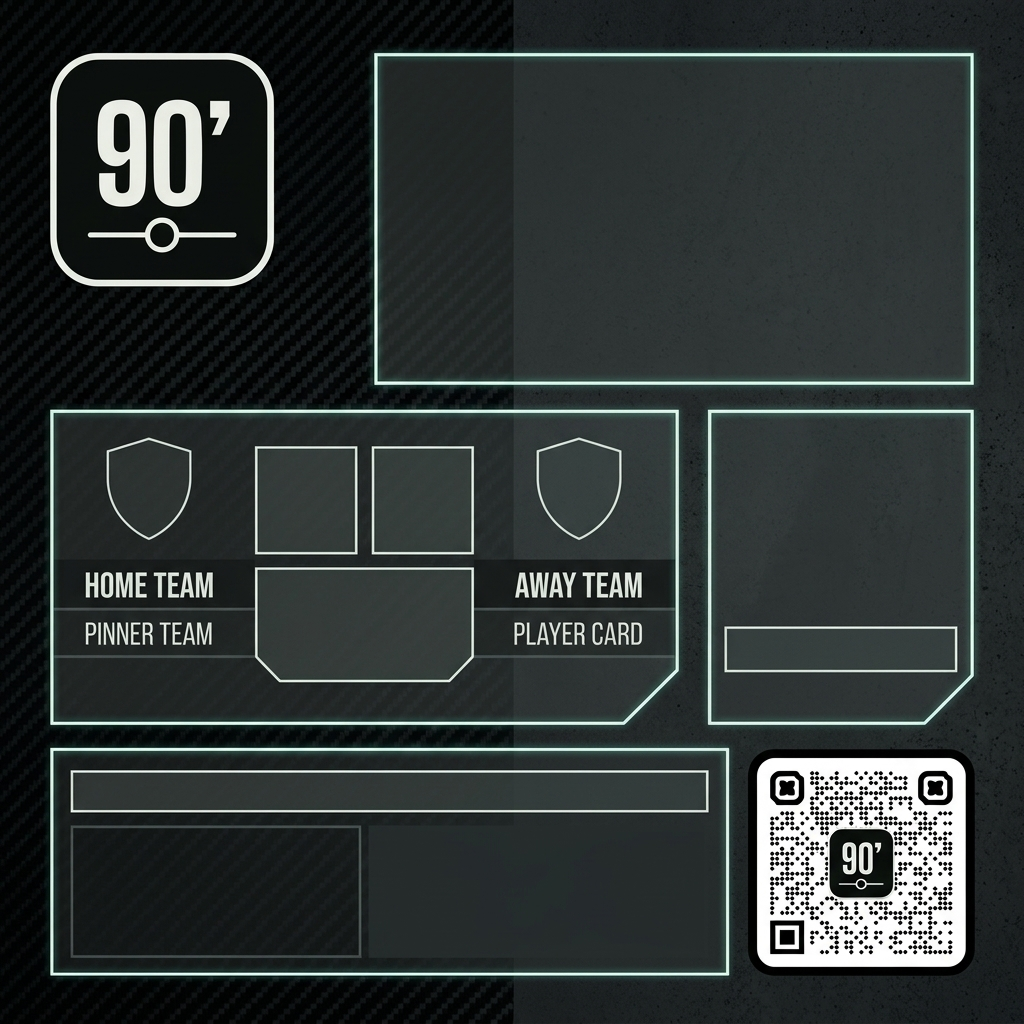
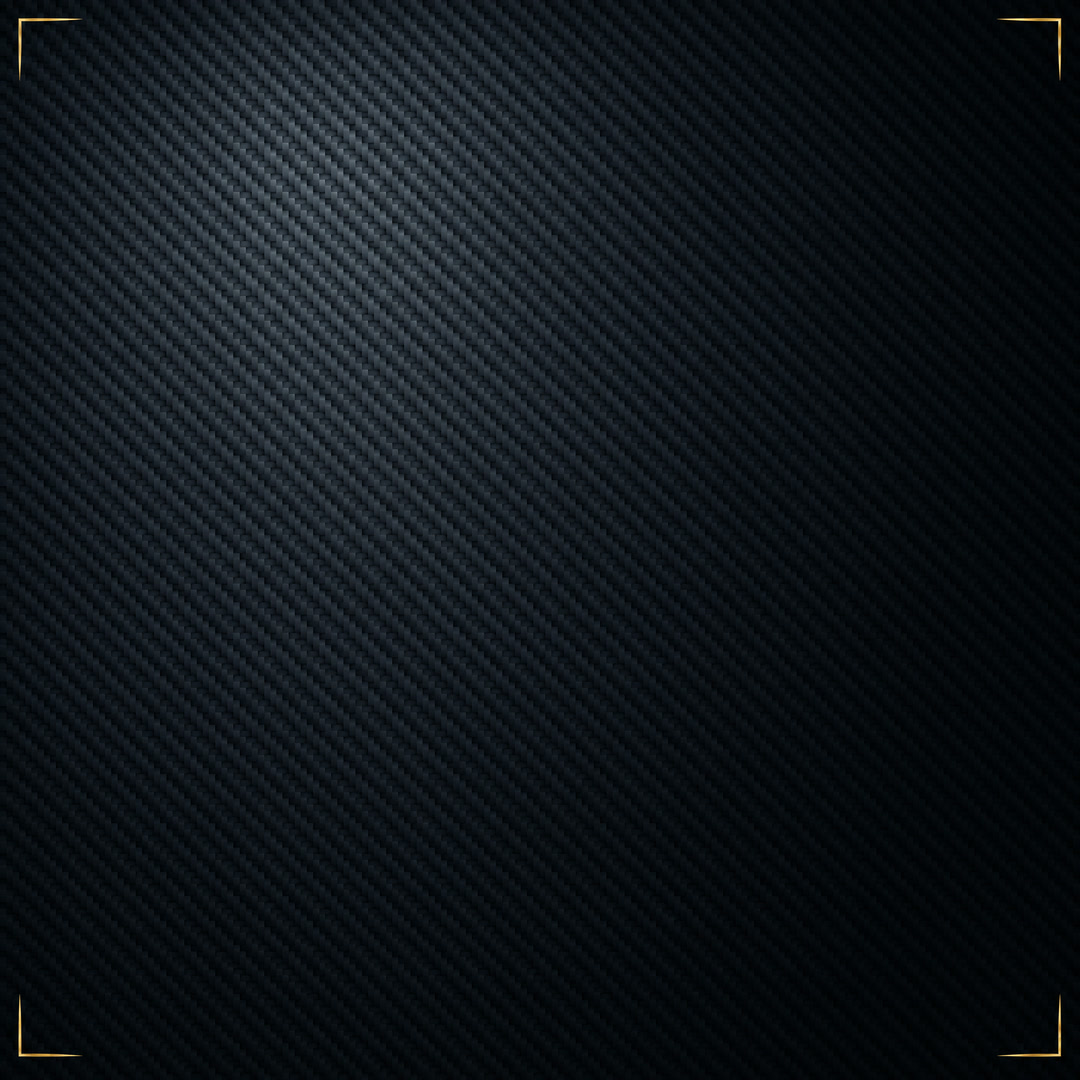
La carte de statistiques quitte sa maquette
Derniere plaque du depot restee a l'etat de maquette : stats-match portait
ses cadres, ses panneaux et les mots « HOME TEAM », « AWAY TEAM », « PINNER
TEAM », « PLAYER CARD » PEINTS DANS L'IMAGE. Le code en recouvrait une partie
seulement — d'ou les cadres fantomes sous la carte publiee (Mehdi, 16/10).

Le logo et le code QR y etaient peints eux aussi : l'un ne pouvait pas etre
redimensionne, l'autre ne pouvait pas etre mis a jour. Ils sont desormais
dessines, dans les deux zones qu'ils occupaient deja.

Le bloc d'inscription complet tire un voile sur TOUTE la largeur, qui
traverserait le tableau : ici le code est pose seul et sa ligne d'appel est
ecrite sous lui, dans son propre coin.

diff --git a/studio/draw-gabarits.js b/studio/draw-gabarits.js
@@ -315,6 +315,28 @@ export async function gabaritStatsMatch(d) {
     txt(ctx, d.ecart.valeur, 888, 548, { size: 66, font: 'Anton' })
     ar(ctx, d.ecart.libelle, 888, 606, { size: 21 })
   }
+
+  // ── LA MARQUE ET LE CODE, DESSINES ────────────────────────────────────
+  // Ils etaient PEINTS DANS LA MAQUETTE, avec les cadres et les mots
+  // « HOME TEAM » / « AWAY TEAM » qui transparaissaient sous la carte. La
+  // plaque est nue depuis le 16/10/2026 : ils occupent les deux zones
+  // qu'ils occupaient deja, mais a la taille des autres formats et, pour le
+  // code, modifiable.
+  // 190 et non 150 : ici la marque occupe un bloc a elle, laisse libre par
+  // l'entete decale a droite. A la taille des autres formats elle s'y perdait.
+  paintLogo(ctx, 102, 108, 190)
+
+  // Le bloc d'inscription complet tire un voile SUR TOUTE LA LARGEUR, qui
+  // traverserait le tableau. Ici le code est pose seul et sa ligne d'appel
+  // est ecrite sous lui, dans son propre coin.
+  const CXQ = 912, YQ = 788, TQ = 148
+  blocInscription(ctx, CXQ, YQ, TQ, T, { sansTexte: true })
+  const yA = YQ + largeurQr(TQ) + 34
+  const voile = ctx.createLinearGradient(749, 0, 1080, 0)
+  voile.addColorStop(0, 'rgba(5,8,15,0)'); voile.addColorStop(0.25, 'rgba(5,8,15,0.9)')
+  voile.addColorStop(0.85, 'rgba(5,8,15,0.9)'); voile.addColorStop(1, 'rgba(5,8,15,0)')
+  ctx.save(); ctx.fillStyle = voile; ctx.fillRect(749, yA - 28, 331, 58); ctx.restore()
+  ar(ctx, 'امسح واحصل على 100 كرامبون', CXQ, yA, { size: 21, color: OR })
   return c
 }
 
